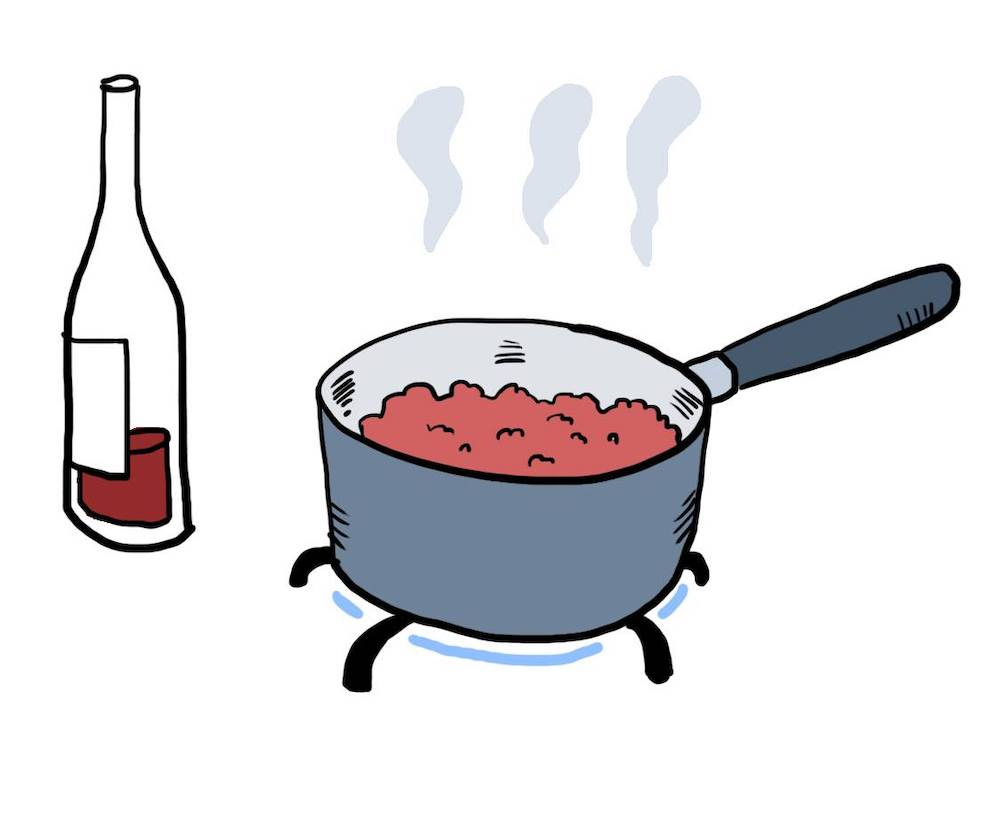
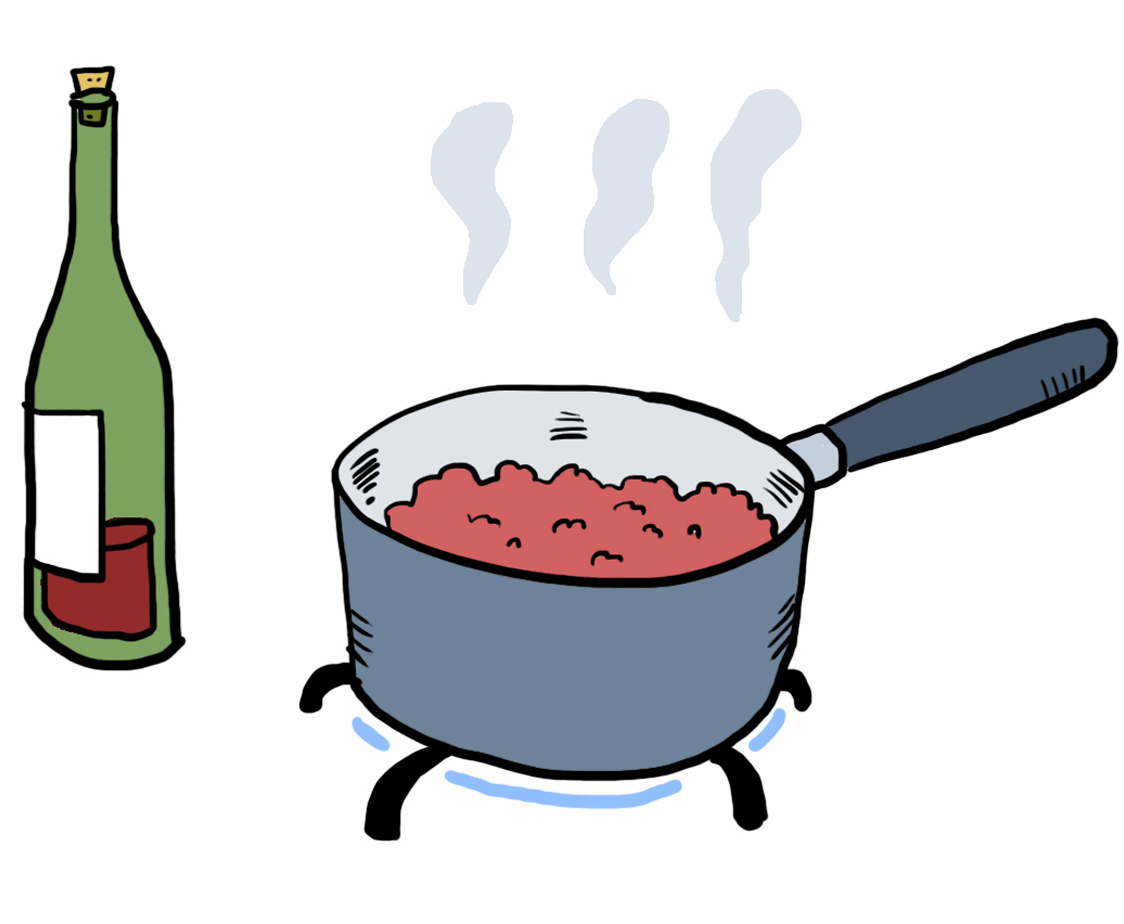
add images

diff --git a/src/recipes/risotto-bourguignon.js b/src/recipes/risotto-bourguignon.js
@@ -50,12 +50,14 @@ const risottoBourguignon = {
     },
     {
       title: "Préparation de la garniture 4/5",
-      description: "Tailler la poitrine fumée en petits lardons "
+      description: "Tailler la poitrine fumée en petits lardons",
+      imageUrl: `${id}/step2_4.jpg`
     },
     {
       title: "Préparation de la garniture 5/5",
       description:
-        "Eplucher les oignons grelots (astuce du chef : recouvrir les oignons d’eau bouillante, ils seront plus faciles à éplucher)"
+        "Eplucher les oignons grelots (astuce du chef : recouvrir les oignons d’eau bouillante, ils seront plus faciles à éplucher)",
+      imageUrl: `${id}/step2_5.jpg`
     },
     {
       title: "Préparation des oignons grelots 1/4",

diff --git a/src/components/footer.jsx b/src/components/footer.jsx
@@ -32,7 +32,7 @@ const Footer = ({ className }) => (
       params={{
         particles: {
           number: {
-            value: 14,
+            value: 10,
             density: {
               enable: false,
               value_area: 2004.2650760819035
